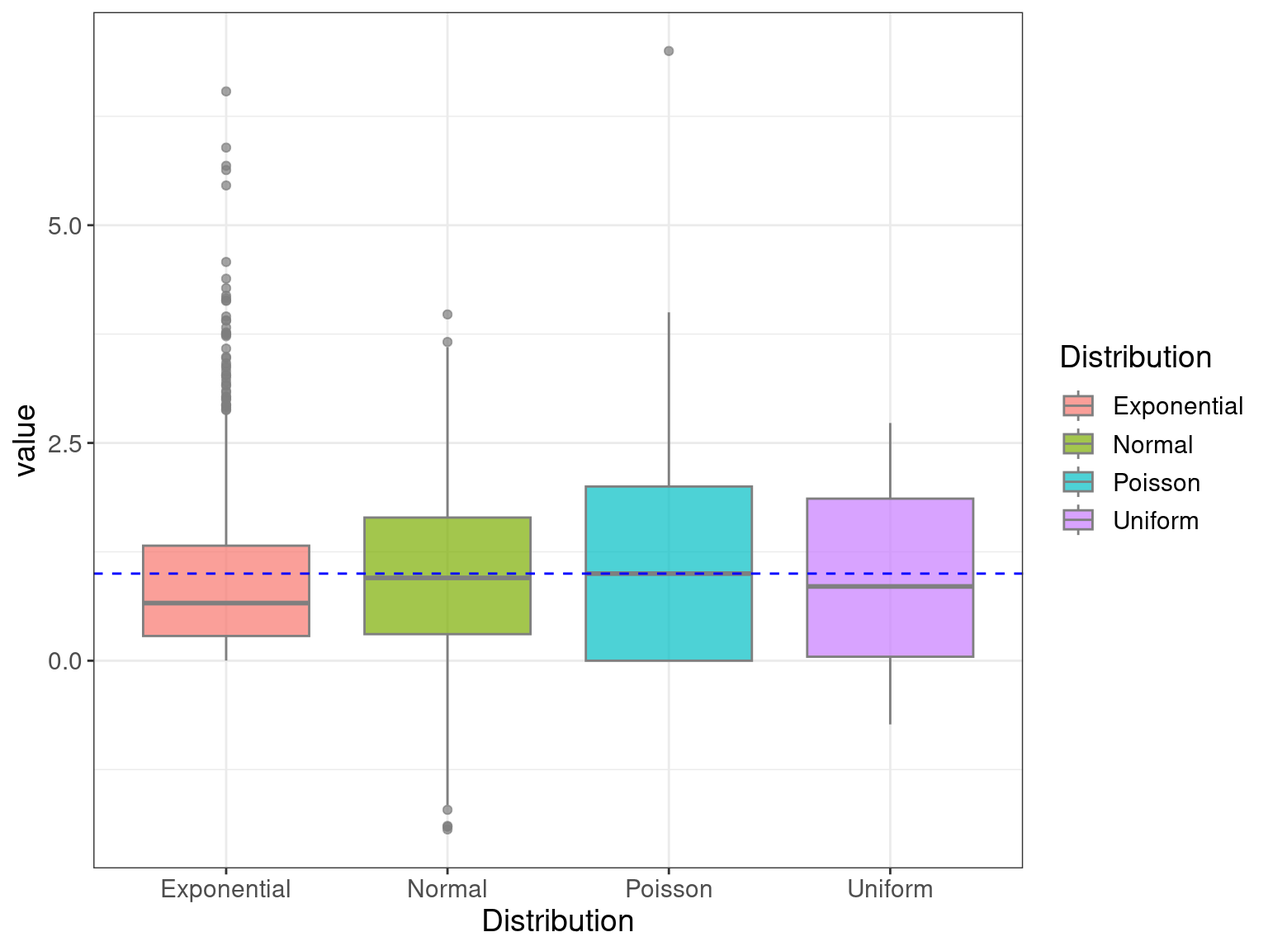
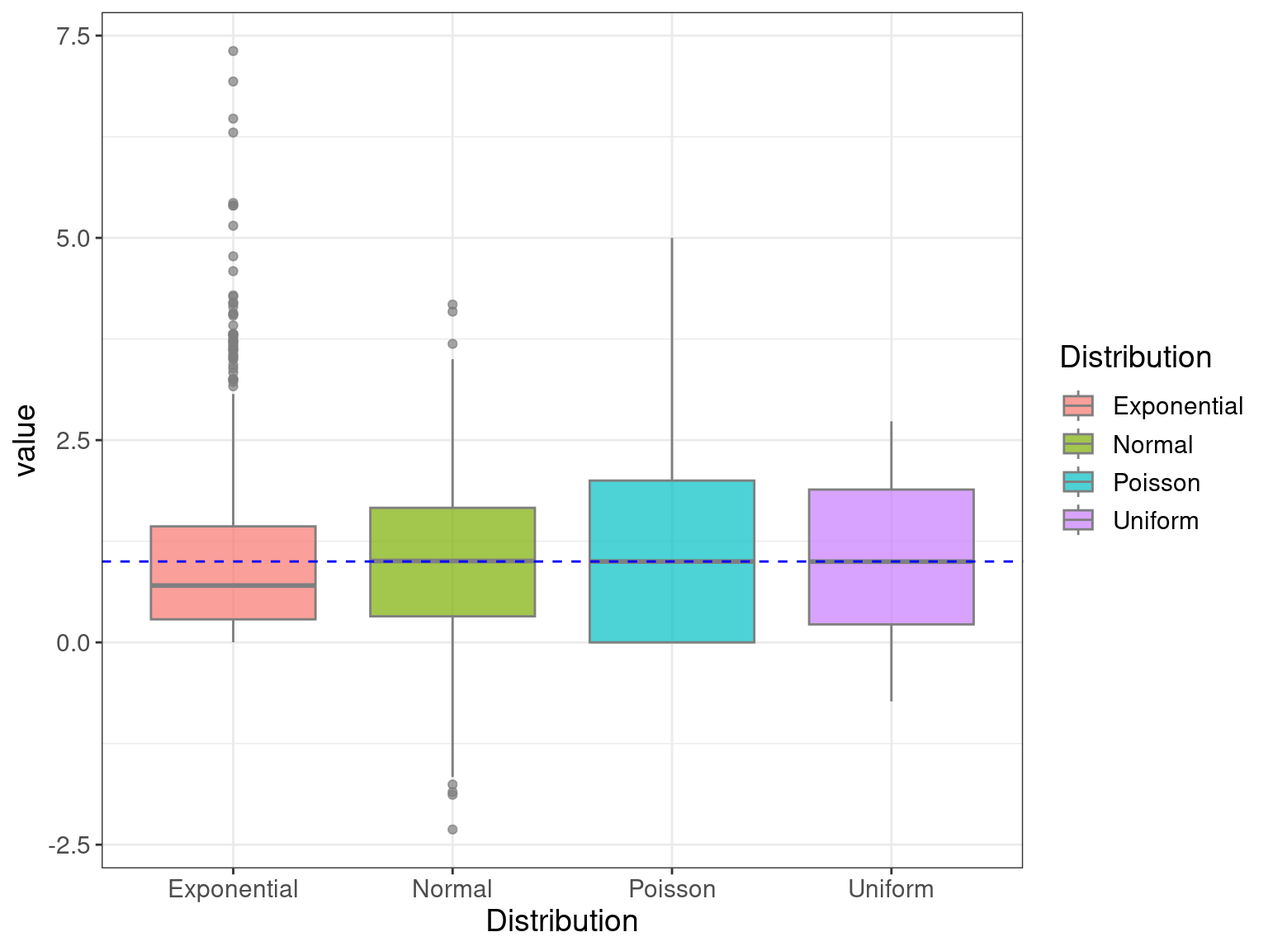
Started regression

diff --git a/docs/2.3_BasicStatistics.html b/docs/2.3_BasicStatistics.html
@@ -578,23 +578,23 @@ Dr Stevie Pederson
 <tbody>
 <tr class="odd">
 <td style="text-align: left;">Normal</td>
-<td style="text-align: right;">0.9492</td>
-<td style="text-align: right;">0.9949</td>
+<td style="text-align: right;">0.9879</td>
+<td style="text-align: right;">1.009</td>
 </tr>
 <tr class="even">
 <td style="text-align: left;">Uniform</td>
-<td style="text-align: right;">0.9323</td>
-<td style="text-align: right;">1.021</td>
+<td style="text-align: right;">1.031</td>
+<td style="text-align: right;">0.9926</td>
 </tr>
 <tr class="odd">
 <td style="text-align: left;">Exponential</td>
-<td style="text-align: right;">0.9529</td>
-<td style="text-align: right;">0.9316</td>
+<td style="text-align: right;">1.011</td>
+<td style="text-align: right;">1.007</td>
 </tr>
 <tr class="even">
 <td style="text-align: left;">Poisson</td>
-<td style="text-align: right;">1.007</td>
-<td style="text-align: right;">1.012</td>
+<td style="text-align: right;">0.98</td>
+<td style="text-align: right;">0.9729</td>
 </tr>
 </tbody>
 </table>
@@ -978,7 +978,7 @@ H_A: \text{Dependence between groups and outcome}
 </div>
 </section></section>
 <section>
-<section id="regression" class="title-slide slide level1 center">
+<section id="regression" class="title-slide slide level1 center" data-background-color="#3c3c44">
 <h1>Regression</h1>
 
 </section>
@@ -997,14 +997,15 @@ y = \beta_0 + \beta_1 x
 <h2>Linear Regression</h2>
 <p>Linear Regression always uses the <code>R</code> formula syntax</p>
 <ul>
-<li><code>y ~ x</code> means <code>y</code> is a function of <code>x</code></li>
+<li><code>y ~ x</code> means <code>y</code> depends on <code>x</code>
+<ul>
+<li>i.e.&nbsp;<span class="math inline">\(y = \beta_0 + \beta_1x\)</span></li>
+</ul></li>
 <li>We use the function <code>lm()</code></li>
 <li>The Intercept term is assumed unless explicitly removed (<code>~ 0 + ...</code>)</li>
 </ul>
 <div class="cell" data-layout-align="center">
-<div class="sourceCode cell-code" id="cb18"><pre class="sourceCode r code-with-copy"><code class="sourceCode r"><span id="cb18-1"><a href="#cb18-1" aria-hidden="true" tabindex="-1"></a>lmTooth <span class="ot">&lt;-</span> <span class="fu">lm</span>(len <span class="sc">~</span> supp , <span class="at">data =</span> toothData) </span>
-<span id="cb18-2"><a href="#cb18-2" aria-hidden="true" tabindex="-1"></a><span class="fu">anova</span>(lmTooth)</span>
-<span id="cb18-3"><a href="#cb18-3" aria-hidden="true" tabindex="-1"></a><span class="fu">summary</span>(lmTooth)</span></code><button title="Copy to Clipboard" class="code-copy-button"><i class="bi"></i></button></pre></div>
+<div class="sourceCode cell-code" id="cb18"><pre class="sourceCode r code-with-copy"><code class="sourceCode r"><span id="cb18-1"><a href="#cb18-1" aria-hidden="true" tabindex="-1"></a>lmTooth <span class="ot">&lt;-</span> <span class="fu">lm</span>(len <span class="sc">~</span> supp , <span class="at">data =</span> toothData) </span></code><button title="Copy to Clipboard" class="code-copy-button"><i class="bi"></i></button></pre></div>
 </div>
 </section>
 <section id="linear-regression-2" class="slide level2">
@@ -1015,17 +1016,34 @@ y = \beta_0 + \beta_1 x
 <span id="cb19-2"><a href="#cb19-2" aria-hidden="true" tabindex="-1"></a><span class="fu">typeof</span>(lmTooth)</span>
 <span id="cb19-3"><a href="#cb19-3" aria-hidden="true" tabindex="-1"></a><span class="fu">str</span>(lmTooth)</span></code><button title="Copy to Clipboard" class="code-copy-button"><i class="bi"></i></button></pre></div>
 </div>
+<div class="fragment">
+<div class="cell" data-layout-align="center">
+<div class="sourceCode cell-code" id="cb20"><pre class="sourceCode r code-with-copy"><code class="sourceCode r"><span id="cb20-1"><a href="#cb20-1" aria-hidden="true" tabindex="-1"></a><span class="fu">anova</span>(lmTooth)</span>
+<span id="cb20-2"><a href="#cb20-2" aria-hidden="true" tabindex="-1"></a><span class="fu">summary</span>(lmTooth)</span></code><button title="Copy to Clipboard" class="code-copy-button"><i class="bi"></i></button></pre></div>
+</div>
+</div>
 </section>
 <section id="linear-regression-3" class="slide level2">
+<h2>Linear Regression</h2>
+<ul>
+<li>Both <code>anova()</code> and <code>summary()</code> also create objects</li>
+</ul>
+<div class="cell" data-layout-align="center">
+<div class="sourceCode cell-code" id="cb21"><pre class="sourceCode r code-with-copy"><code class="sourceCode r"><span id="cb21-1"><a href="#cb21-1" aria-hidden="true" tabindex="-1"></a><span class="fu">class</span>(<span class="fu">anova</span>(lmTooth))</span>
+<span id="cb21-2"><a href="#cb21-2" aria-hidden="true" tabindex="-1"></a><span class="fu">class</span>(<span class="fu">summary</span>(lmTooth))</span>
+<span id="cb21-3"><a href="#cb21-3" aria-hidden="true" tabindex="-1"></a><span class="fu">typeof</span>(<span class="fu">summary</span>(lmTooth))</span></code><button title="Copy to Clipboard" class="code-copy-button"><i class="bi"></i></button></pre></div>
+</div>
+</section>
+<section id="linear-regression-4" class="slide level2">
 <h2>Linear Regression</h2>
 <ul>
 <li>It looks like <code>supp == VC</code> reduces the length of the teeth</li>
 <li>In reality we’d like to see if dose has an effect as well</li>
 </ul>
 <div class="cell" data-layout-align="center">
-<div class="sourceCode cell-code" id="cb20"><pre class="sourceCode r code-with-copy"><code class="sourceCode r"><span id="cb20-1"><a href="#cb20-1" aria-hidden="true" tabindex="-1"></a>lmToothDose <span class="ot">&lt;-</span> <span class="fu">lm</span>(len <span class="sc">~</span> supp <span class="sc">+</span> dose, <span class="at">data =</span> toothData) </span>
-<span id="cb20-2"><a href="#cb20-2" aria-hidden="true" tabindex="-1"></a><span class="fu">anova</span>(lmToothDose)</span>
-<span id="cb20-3"><a href="#cb20-3" aria-hidden="true" tabindex="-1"></a><span class="fu">summary</span>(lmToothDose)</span></code><button title="Copy to Clipboard" class="code-copy-button"><i class="bi"></i></button></pre></div>
+<div class="sourceCode cell-code" id="cb22"><pre class="sourceCode r code-with-copy"><code class="sourceCode r"><span id="cb22-1"><a href="#cb22-1" aria-hidden="true" tabindex="-1"></a>lmToothDose <span class="ot">&lt;-</span> <span class="fu">lm</span>(len <span class="sc">~</span> supp <span class="sc">+</span> dose, <span class="at">data =</span> toothData) </span>
+<span id="cb22-2"><a href="#cb22-2" aria-hidden="true" tabindex="-1"></a><span class="fu">anova</span>(lmToothDose)</span>
+<span id="cb22-3"><a href="#cb22-3" aria-hidden="true" tabindex="-1"></a><span class="fu">summary</span>(lmToothDose)</span></code><button title="Copy to Clipboard" class="code-copy-button"><i class="bi"></i></button></pre></div>
 </div>
 <ul>
 <li>It looks like an increasing dose-level increases length</li>
@@ -1038,10 +1056,10 @@ y = \beta_0 + \beta_1 x
 <li>We could include an <strong>interaction term</strong></li>
 </ul>
 <div class="cell" data-layout-align="center">
-<div class="sourceCode cell-code" id="cb21"><pre class="sourceCode r code-with-copy"><code class="sourceCode r"><span id="cb21-1"><a href="#cb21-1" aria-hidden="true" tabindex="-1"></a>lmToothInteraction <span class="ot">&lt;-</span> <span class="fu">lm</span>(len <span class="sc">~</span> supp <span class="sc">+</span> dose <span class="sc">+</span> supp<span class="sc">:</span>dose, </span>
-<span id="cb21-2"><a href="#cb21-2" aria-hidden="true" tabindex="-1"></a>                         <span class="at">data =</span> toothData) </span>
-<span id="cb21-3"><a href="#cb21-3" aria-hidden="true" tabindex="-1"></a><span class="fu">summary</span>(lmToothInteraction)</span>
-<span id="cb21-4"><a href="#cb21-4" aria-hidden="true" tabindex="-1"></a><span class="fu">anova</span>(lmToothInteraction)</span></code><button title="Copy to Clipboard" class="code-copy-button"><i class="bi"></i></button></pre></div>
+<div class="sourceCode cell-code" id="cb23"><pre class="sourceCode r code-with-copy"><code class="sourceCode r"><span id="cb23-1"><a href="#cb23-1" aria-hidden="true" tabindex="-1"></a>lmToothInteraction <span class="ot">&lt;-</span> <span class="fu">lm</span>(len <span class="sc">~</span> supp <span class="sc">+</span> dose <span class="sc">+</span> supp<span class="sc">:</span>dose, </span>
+<span id="cb23-2"><a href="#cb23-2" aria-hidden="true" tabindex="-1"></a>                         <span class="at">data =</span> toothData) </span>
+<span id="cb23-3"><a href="#cb23-3" aria-hidden="true" tabindex="-1"></a><span class="fu">summary</span>(lmToothInteraction)</span>
+<span id="cb23-4"><a href="#cb23-4" aria-hidden="true" tabindex="-1"></a><span class="fu">anova</span>(lmToothInteraction)</span></code><button title="Copy to Clipboard" class="code-copy-button"><i class="bi"></i></button></pre></div>
 </div>
 <ul>
 <li>It looks like at the higher doses, this difference disappears</li>
@@ -1051,20 +1069,20 @@ y = \beta_0 + \beta_1 x
 <h2>Linear Regression | Interaction Terms</h2>
 <p>An alternative way to write the previous model is:</p>
 <div class="cell" data-layout-align="center">
-<div class="sourceCode cell-code" id="cb22"><pre class="sourceCode r code-with-copy"><code class="sourceCode r"><span id="cb22-1"><a href="#cb22-1" aria-hidden="true" tabindex="-1"></a>lmToothInteraction <span class="ot">&lt;-</span> <span class="fu">lm</span>(len <span class="sc">~</span> (supp <span class="sc">+</span> dose)<span class="sc">^</span><span class="dv">2</span>, </span>
-<span id="cb22-2"><a href="#cb22-2" aria-hidden="true" tabindex="-1"></a>                         <span class="at">data =</span> toothData)</span>
-<span id="cb22-3"><a href="#cb22-3" aria-hidden="true" tabindex="-1"></a><span class="fu">summary</span>(lmToothInteraction)</span>
-<span id="cb22-4"><a href="#cb22-4" aria-hidden="true" tabindex="-1"></a><span class="fu">anova</span>(lmToothInteraction)</span></code><button title="Copy to Clipboard" class="code-copy-button"><i class="bi"></i></button></pre></div>
+<div class="sourceCode cell-code" id="cb24"><pre class="sourceCode r code-with-copy"><code class="sourceCode r"><span id="cb24-1"><a href="#cb24-1" aria-hidden="true" tabindex="-1"></a>lmToothInteraction <span class="ot">&lt;-</span> <span class="fu">lm</span>(len <span class="sc">~</span> (supp <span class="sc">+</span> dose)<span class="sc">^</span><span class="dv">2</span>, </span>
+<span id="cb24-2"><a href="#cb24-2" aria-hidden="true" tabindex="-1"></a>                         <span class="at">data =</span> toothData)</span>
+<span id="cb24-3"><a href="#cb24-3" aria-hidden="true" tabindex="-1"></a><span class="fu">summary</span>(lmToothInteraction)</span>
+<span id="cb24-4"><a href="#cb24-4" aria-hidden="true" tabindex="-1"></a><span class="fu">anova</span>(lmToothInteraction)</span></code><button title="Copy to Clipboard" class="code-copy-button"><i class="bi"></i></button></pre></div>
 </div>
 </section>
 <section id="linear-regression-model-selection" class="slide level2">
 <h2>Linear Regression | Model Selection</h2>
 <p>Which model should we choose?</p>
 <div class="cell" data-layout-align="center">
-<div class="sourceCode cell-code" id="cb23"><pre class="sourceCode r code-with-copy"><code class="sourceCode r"><span id="cb23-1"><a href="#cb23-1" aria-hidden="true" tabindex="-1"></a><span class="fu">anova</span>(lmTooth, lmToothDose, lmToothInteraction)</span></code><button title="Copy to Clipboard" class="code-copy-button"><i class="bi"></i></button></pre></div>
+<div class="sourceCode cell-code" id="cb25"><pre class="sourceCode r code-with-copy"><code class="sourceCode r"><span id="cb25-1"><a href="#cb25-1" aria-hidden="true" tabindex="-1"></a><span class="fu">anova</span>(lmTooth, lmToothDose, lmToothInteraction)</span></code><button title="Copy to Clipboard" class="code-copy-button"><i class="bi"></i></button></pre></div>
 </div>
 </section>
-<section id="linear-regression-4" class="slide level2">
+<section id="linear-regression-5" class="slide level2">
 <h2>Linear Regression</h2>
 <p>Are we happy with our model assumptions?</p>
 <ol type="1">
@@ -1073,9 +1091,9 @@ y = \beta_0 + \beta_1 x
 <li>Linear relationship</li>
 </ol>
 <div class="cell" data-layout-align="center">
-<div class="sourceCode cell-code" id="cb24"><pre class="sourceCode r code-with-copy"><code class="sourceCode r"><span id="cb24-1"><a href="#cb24-1" aria-hidden="true" tabindex="-1"></a><span class="fu">par</span>(<span class="at">mfrow =</span> <span class="fu">c</span>(<span class="dv">1</span>,<span class="dv">2</span>))</span>
-<span id="cb24-2"><a href="#cb24-2" aria-hidden="true" tabindex="-1"></a><span class="fu">plot</span>(lmToothInteraction, <span class="at">which =</span> <span class="dv">1</span><span class="sc">:</span><span class="dv">2</span>)</span>
-<span id="cb24-3"><a href="#cb24-3" aria-hidden="true" tabindex="-1"></a><span class="fu">par</span>(<span class="at">mfrow =</span> <span class="fu">c</span>(<span class="dv">1</span>, <span class="dv">1</span>))</span></code><button title="Copy to Clipboard" class="code-copy-button"><i class="bi"></i></button></pre></div>
+<div class="sourceCode cell-code" id="cb26"><pre class="sourceCode r code-with-copy"><code class="sourceCode r"><span id="cb26-1"><a href="#cb26-1" aria-hidden="true" tabindex="-1"></a><span class="fu">par</span>(<span class="at">mfrow =</span> <span class="fu">c</span>(<span class="dv">1</span>,<span class="dv">2</span>))</span>
+<span id="cb26-2"><a href="#cb26-2" aria-hidden="true" tabindex="-1"></a><span class="fu">plot</span>(lmToothInteraction, <span class="at">which =</span> <span class="dv">1</span><span class="sc">:</span><span class="dv">2</span>)</span>
+<span id="cb26-3"><a href="#cb26-3" aria-hidden="true" tabindex="-1"></a><span class="fu">par</span>(<span class="at">mfrow =</span> <span class="fu">c</span>(<span class="dv">1</span>, <span class="dv">1</span>))</span></code><button title="Copy to Clipboard" class="code-copy-button"><i class="bi"></i></button></pre></div>
 </div>
 <!-- ## Logistic Regression | `glm()` -->
 <!-- Logistic Regression models probabilities (e.g. $H_0: \pi = 0$) -->
@@ -1158,11 +1176,11 @@ y = \beta_0 + \beta_1 x
 <li><code>PCA</code> needs a matrix, so I’ll transform as I load</li>
 </ul>
 <div class="cell" data-layout-align="center">
-<div class="sourceCode cell-code" id="cb25"><pre class="sourceCode r code-with-copy"><code class="sourceCode r"><span id="cb25-1"><a href="#cb25-1" aria-hidden="true" tabindex="-1"></a>genes <span class="ot">&lt;-</span> <span class="fu">read_csv</span>(<span class="st">"data/geneExpression.csv"</span>) <span class="sc">%&gt;%</span></span>
-<span id="cb25-2"><a href="#cb25-2" aria-hidden="true" tabindex="-1"></a>  <span class="fu">as.data.frame</span>() <span class="sc">%&gt;%</span></span>
-<span id="cb25-3"><a href="#cb25-3" aria-hidden="true" tabindex="-1"></a>  <span class="fu">column_to_rownames</span>(<span class="st">"X1"</span>) <span class="sc">%&gt;%</span></span>
-<span id="cb25-4"><a href="#cb25-4" aria-hidden="true" tabindex="-1"></a>  <span class="fu">as.matrix</span>() </span>
-<span id="cb25-5"><a href="#cb25-5" aria-hidden="true" tabindex="-1"></a><span class="fu">dim</span>(genes)</span></code><button title="Copy to Clipboard" class="code-copy-button"><i class="bi"></i></button></pre></div>
+<div class="sourceCode cell-code" id="cb27"><pre class="sourceCode r code-with-copy"><code class="sourceCode r"><span id="cb27-1"><a href="#cb27-1" aria-hidden="true" tabindex="-1"></a>genes <span class="ot">&lt;-</span> <span class="fu">read_csv</span>(<span class="st">"data/geneExpression.csv"</span>) <span class="sc">%&gt;%</span></span>
+<span id="cb27-2"><a href="#cb27-2" aria-hidden="true" tabindex="-1"></a>  <span class="fu">as.data.frame</span>() <span class="sc">%&gt;%</span></span>
+<span id="cb27-3"><a href="#cb27-3" aria-hidden="true" tabindex="-1"></a>  <span class="fu">column_to_rownames</span>(<span class="st">"X1"</span>) <span class="sc">%&gt;%</span></span>
+<span id="cb27-4"><a href="#cb27-4" aria-hidden="true" tabindex="-1"></a>  <span class="fu">as.matrix</span>() </span>
+<span id="cb27-5"><a href="#cb27-5" aria-hidden="true" tabindex="-1"></a><span class="fu">dim</span>(genes)</span></code><button title="Copy to Clipboard" class="code-copy-button"><i class="bi"></i></button></pre></div>
 </div>
 </section>
 <section id="pca-1" class="slide level2">
@@ -1174,10 +1192,10 @@ y = \beta_0 + \beta_1 x
 <li>Run <code>PCA</code> using <code>prcomp()</code></li>
 </ul>
 <div class="cell" data-layout-align="center">
-<div class="sourceCode cell-code" id="cb26"><pre class="sourceCode r code-with-copy"><code class="sourceCode r"><span id="cb26-1"><a href="#cb26-1" aria-hidden="true" tabindex="-1"></a>pcaGenes <span class="ot">&lt;-</span> genes <span class="sc">%&gt;%</span> <span class="fu">t</span>() <span class="sc">%&gt;%</span> <span class="fu">prcomp</span>()</span>
-<span id="cb26-2"><a href="#cb26-2" aria-hidden="true" tabindex="-1"></a><span class="fu">summary</span>(pcaGenes)</span>
-<span id="cb26-3"><a href="#cb26-3" aria-hidden="true" tabindex="-1"></a><span class="fu">biplot</span>(pcaGenes)</span>
-<span id="cb26-4"><a href="#cb26-4" aria-hidden="true" tabindex="-1"></a><span class="fu">screeplot</span>(pcaGenes)</span></code><button title="Copy to Clipboard" class="code-copy-button"><i class="bi"></i></button></pre></div>
+<div class="sourceCode cell-code" id="cb28"><pre class="sourceCode r code-with-copy"><code class="sourceCode r"><span id="cb28-1"><a href="#cb28-1" aria-hidden="true" tabindex="-1"></a>pcaGenes <span class="ot">&lt;-</span> genes <span class="sc">%&gt;%</span> <span class="fu">t</span>() <span class="sc">%&gt;%</span> <span class="fu">prcomp</span>()</span>
+<span id="cb28-2"><a href="#cb28-2" aria-hidden="true" tabindex="-1"></a><span class="fu">summary</span>(pcaGenes)</span>
+<span id="cb28-3"><a href="#cb28-3" aria-hidden="true" tabindex="-1"></a><span class="fu">biplot</span>(pcaGenes)</span>
+<span id="cb28-4"><a href="#cb28-4" aria-hidden="true" tabindex="-1"></a><span class="fu">screeplot</span>(pcaGenes)</span></code><button title="Copy to Clipboard" class="code-copy-button"><i class="bi"></i></button></pre></div>
 </div>
 </section>
 <section id="pca-2" class="slide level2">
@@ -1187,9 +1205,9 @@ y = \beta_0 + \beta_1 x
 <li>Create a <code>tibble</code> using the sample names</li>
 </ul>
 <div class="cell" data-layout-align="center">
-<div class="sourceCode cell-code" id="cb27"><pre class="sourceCode r code-with-copy"><code class="sourceCode r"><span id="cb27-1"><a href="#cb27-1" aria-hidden="true" tabindex="-1"></a>samples <span class="ot">&lt;-</span> <span class="fu">tibble</span>(<span class="at">name =</span> <span class="fu">colnames</span>(genes)) <span class="sc">%&gt;%</span></span>
-<span id="cb27-2"><a href="#cb27-2" aria-hidden="true" tabindex="-1"></a>  <span class="fu">mutate</span>(<span class="at">CellType =</span> <span class="fu">str_extract</span>(name, <span class="st">"(Th|Treg)"</span>),</span>
-<span id="cb27-3"><a href="#cb27-3" aria-hidden="true" tabindex="-1"></a>         <span class="at">Stim =</span> <span class="fu">str_detect</span>(name, <span class="st">"</span><span class="sc">\\</span><span class="st">+"</span>))</span></code><button title="Copy to Clipboard" class="code-copy-button"><i class="bi"></i></button></pre></div>
+<div class="sourceCode cell-code" id="cb29"><pre class="sourceCode r code-with-copy"><code class="sourceCode r"><span id="cb29-1"><a href="#cb29-1" aria-hidden="true" tabindex="-1"></a>samples <span class="ot">&lt;-</span> <span class="fu">tibble</span>(<span class="at">name =</span> <span class="fu">colnames</span>(genes)) <span class="sc">%&gt;%</span></span>
+<span id="cb29-2"><a href="#cb29-2" aria-hidden="true" tabindex="-1"></a>  <span class="fu">mutate</span>(<span class="at">CellType =</span> <span class="fu">str_extract</span>(name, <span class="st">"(Th|Treg)"</span>),</span>
+<span id="cb29-3"><a href="#cb29-3" aria-hidden="true" tabindex="-1"></a>         <span class="at">Stim =</span> <span class="fu">str_detect</span>(name, <span class="st">"</span><span class="sc">\\</span><span class="st">+"</span>))</span></code><button title="Copy to Clipboard" class="code-copy-button"><i class="bi"></i></button></pre></div>
 </div>
 </section>
 <section id="pca-3" class="slide level2">
@@ -1197,14 +1215,14 @@ y = \beta_0 + \beta_1 x
 <p>The co-ordinates on each component are in <code>pcaGenes$x</code></p>
 <p>Now we can convert to a <code>data.frame</code> and <code>left_join()</code></p>
 <div class="cell" data-layout-align="center">
-<div class="sourceCode cell-code" id="cb28"><pre class="sourceCode r code-with-copy"><code class="sourceCode r"><span id="cb28-1"><a href="#cb28-1" aria-hidden="true" tabindex="-1"></a>pcaGenes<span class="sc">$</span>x <span class="sc">%&gt;%</span></span>
-<span id="cb28-2"><a href="#cb28-2" aria-hidden="true" tabindex="-1"></a>  <span class="fu">as.data.frame</span>() <span class="sc">%&gt;%</span></span>
-<span id="cb28-3"><a href="#cb28-3" aria-hidden="true" tabindex="-1"></a>  <span class="fu">rownames_to_column</span>(<span class="st">"name"</span>) <span class="sc">%&gt;%</span></span>
-<span id="cb28-4"><a href="#cb28-4" aria-hidden="true" tabindex="-1"></a>  <span class="fu">left_join</span>(samples) <span class="sc">%&gt;%</span></span>
-<span id="cb28-5"><a href="#cb28-5" aria-hidden="true" tabindex="-1"></a>  <span class="fu">ggplot</span>(</span>
-<span id="cb28-6"><a href="#cb28-6" aria-hidden="true" tabindex="-1"></a>    <span class="fu">aes</span>(<span class="at">x =</span> PC1, <span class="at">y =</span> PC2, <span class="at">colour =</span> CellType, <span class="at">shape =</span> Stim)</span>
-<span id="cb28-7"><a href="#cb28-7" aria-hidden="true" tabindex="-1"></a>  ) <span class="sc">+</span></span>
-<span id="cb28-8"><a href="#cb28-8" aria-hidden="true" tabindex="-1"></a>  <span class="fu">geom_point</span>(<span class="at">size =</span> <span class="dv">2</span>)</span></code><button title="Copy to Clipboard" class="code-copy-button"><i class="bi"></i></button></pre></div>
+<div class="sourceCode cell-code" id="cb30"><pre class="sourceCode r code-with-copy"><code class="sourceCode r"><span id="cb30-1"><a href="#cb30-1" aria-hidden="true" tabindex="-1"></a>pcaGenes<span class="sc">$</span>x <span class="sc">%&gt;%</span></span>
+<span id="cb30-2"><a href="#cb30-2" aria-hidden="true" tabindex="-1"></a>  <span class="fu">as.data.frame</span>() <span class="sc">%&gt;%</span></span>
+<span id="cb30-3"><a href="#cb30-3" aria-hidden="true" tabindex="-1"></a>  <span class="fu">rownames_to_column</span>(<span class="st">"name"</span>) <span class="sc">%&gt;%</span></span>
+<span id="cb30-4"><a href="#cb30-4" aria-hidden="true" tabindex="-1"></a>  <span class="fu">left_join</span>(samples) <span class="sc">%&gt;%</span></span>
+<span id="cb30-5"><a href="#cb30-5" aria-hidden="true" tabindex="-1"></a>  <span class="fu">ggplot</span>(</span>
+<span id="cb30-6"><a href="#cb30-6" aria-hidden="true" tabindex="-1"></a>    <span class="fu">aes</span>(<span class="at">x =</span> PC1, <span class="at">y =</span> PC2, <span class="at">colour =</span> CellType, <span class="at">shape =</span> Stim)</span>
+<span id="cb30-7"><a href="#cb30-7" aria-hidden="true" tabindex="-1"></a>  ) <span class="sc">+</span></span>
+<span id="cb30-8"><a href="#cb30-8" aria-hidden="true" tabindex="-1"></a>  <span class="fu">geom_point</span>(<span class="at">size =</span> <span class="dv">2</span>)</span></code><button title="Copy to Clipboard" class="code-copy-button"><i class="bi"></i></button></pre></div>
 </div>
 </section>
 <section id="making-plots-interactive" class="slide level2">
@@ -1214,36 +1232,36 @@ y = \beta_0 + \beta_1 x
 <li>We need to specify all variables in the <em>“tool-tip”</em></li>
 </ul>
 <div class="cell" data-layout-align="center">
-<div class="sourceCode cell-code" id="cb29"><pre class="sourceCode r code-with-copy"><code class="sourceCode r"><span id="cb29-1"><a href="#cb29-1" aria-hidden="true" tabindex="-1"></a><span class="fu">library</span>(plotly)</span></code><button title="Copy to Clipboard" class="code-copy-button"><i class="bi"></i></button></pre></div>
+<div class="sourceCode cell-code" id="cb31"><pre class="sourceCode r code-with-copy"><code class="sourceCode r"><span id="cb31-1"><a href="#cb31-1" aria-hidden="true" tabindex="-1"></a><span class="fu">library</span>(plotly)</span></code><button title="Copy to Clipboard" class="code-copy-button"><i class="bi"></i></button></pre></div>
 </div>
 </section>
 <section id="making-plots-interactive-1" class="slide level2">
 <h2>Making Plots Interactive</h2>
 <p>We can add any custom parameter to a plot</p>
 <div class="cell" data-layout-align="center">
-<div class="sourceCode cell-code" id="cb30"><pre class="sourceCode r code-with-copy"><code class="sourceCode r"><span id="cb30-1"><a href="#cb30-1" aria-hidden="true" tabindex="-1"></a>pcaPlot <span class="ot">&lt;-</span> pcaGenes<span class="sc">$</span>x <span class="sc">%&gt;%</span></span>
-<span id="cb30-2"><a href="#cb30-2" aria-hidden="true" tabindex="-1"></a>  <span class="fu">as.data.frame</span>() <span class="sc">%&gt;%</span></span>
-<span id="cb30-3"><a href="#cb30-3" aria-hidden="true" tabindex="-1"></a>  <span class="fu">rownames_to_column</span>(<span class="st">"name"</span>) <span class="sc">%&gt;%</span></span>
-<span id="cb30-4"><a href="#cb30-4" aria-hidden="true" tabindex="-1"></a>  <span class="fu">left_join</span>(samples) <span class="sc">%&gt;%</span></span>
-<span id="cb30-5"><a href="#cb30-5" aria-hidden="true" tabindex="-1"></a>  <span class="fu">ggplot</span>(</span>
-<span id="cb30-6"><a href="#cb30-6" aria-hidden="true" tabindex="-1"></a>    <span class="fu">aes</span>(PC1, PC2, </span>
-<span id="cb30-7"><a href="#cb30-7" aria-hidden="true" tabindex="-1"></a>        <span class="at">colour =</span> CellType, <span class="at">shape =</span> Stim, <span class="at">label =</span> name)</span>
-<span id="cb30-8"><a href="#cb30-8" aria-hidden="true" tabindex="-1"></a>  ) <span class="sc">+</span></span>
-<span id="cb30-9"><a href="#cb30-9" aria-hidden="true" tabindex="-1"></a>  <span class="fu">geom_point</span>(<span class="at">size =</span> <span class="dv">2</span>) <span class="sc">+</span></span>
-<span id="cb30-10"><a href="#cb30-10" aria-hidden="true" tabindex="-1"></a>  <span class="fu">theme</span>(<span class="at">legend.position =</span> <span class="st">"none"</span>)</span></code><button title="Copy to Clipboard" class="code-copy-button"><i class="bi"></i></button></pre></div>
+<div class="sourceCode cell-code" id="cb32"><pre class="sourceCode r code-with-copy"><code class="sourceCode r"><span id="cb32-1"><a href="#cb32-1" aria-hidden="true" tabindex="-1"></a>pcaPlot <span class="ot">&lt;-</span> pcaGenes<span class="sc">$</span>x <span class="sc">%&gt;%</span></span>
+<span id="cb32-2"><a href="#cb32-2" aria-hidden="true" tabindex="-1"></a>  <span class="fu">as.data.frame</span>() <span class="sc">%&gt;%</span></span>
+<span id="cb32-3"><a href="#cb32-3" aria-hidden="true" tabindex="-1"></a>  <span class="fu">rownames_to_column</span>(<span class="st">"name"</span>) <span class="sc">%&gt;%</span></span>
+<span id="cb32-4"><a href="#cb32-4" aria-hidden="true" tabindex="-1"></a>  <span class="fu">left_join</span>(samples) <span class="sc">%&gt;%</span></span>
+<span id="cb32-5"><a href="#cb32-5" aria-hidden="true" tabindex="-1"></a>  <span class="fu">ggplot</span>(</span>
+<span id="cb32-6"><a href="#cb32-6" aria-hidden="true" tabindex="-1"></a>    <span class="fu">aes</span>(PC1, PC2, </span>
+<span id="cb32-7"><a href="#cb32-7" aria-hidden="true" tabindex="-1"></a>        <span class="at">colour =</span> CellType, <span class="at">shape =</span> Stim, <span class="at">label =</span> name)</span>
+<span id="cb32-8"><a href="#cb32-8" aria-hidden="true" tabindex="-1"></a>  ) <span class="sc">+</span></span>
+<span id="cb32-9"><a href="#cb32-9" aria-hidden="true" tabindex="-1"></a>  <span class="fu">geom_point</span>(<span class="at">size =</span> <span class="dv">2</span>) <span class="sc">+</span></span>
+<span id="cb32-10"><a href="#cb32-10" aria-hidden="true" tabindex="-1"></a>  <span class="fu">theme</span>(<span class="at">legend.position =</span> <span class="st">"none"</span>)</span></code><button title="Copy to Clipboard" class="code-copy-button"><i class="bi"></i></button></pre></div>
 </div>
 </section>
 <section id="making-plots-interactive-2" class="slide level2">
 <h2>Making Plots Interactive</h2>
 <div class="cell" data-layout-align="center">
-<div class="sourceCode cell-code" id="cb31"><pre class="sourceCode r code-with-copy"><code class="sourceCode r"><span id="cb31-1"><a href="#cb31-1" aria-hidden="true" tabindex="-1"></a><span class="fu">ggplotly</span>(pcaPlot)</span></code><button title="Copy to Clipboard" class="code-copy-button"><i class="bi"></i></button></pre></div>
+<div class="sourceCode cell-code" id="cb33"><pre class="sourceCode r code-with-copy"><code class="sourceCode r"><span id="cb33-1"><a href="#cb33-1" aria-hidden="true" tabindex="-1"></a><span class="fu">ggplotly</span>(pcaPlot)</span></code><button title="Copy to Clipboard" class="code-copy-button"><i class="bi"></i></button></pre></div>
 </div>
 </section>
 <section id="making-plots-interactive-3" class="slide level2">
 <h2>Making Plots Interactive</h2>
 <p>We can select the parameters to show in the tool-tip</p>
 <div class="cell" data-layout-align="center">
-<div class="sourceCode cell-code" id="cb32"><pre class="sourceCode r code-with-copy"><code class="sourceCode r"><span id="cb32-1"><a href="#cb32-1" aria-hidden="true" tabindex="-1"></a><span class="fu">ggplotly</span>(pcaPlot, <span class="at">tooltip =</span> <span class="fu">c</span>(<span class="st">"colour"</span>, <span class="st">"shape"</span>, <span class="st">"label"</span>))</span></code><button title="Copy to Clipboard" class="code-copy-button"><i class="bi"></i></button></pre></div>
+<div class="sourceCode cell-code" id="cb34"><pre class="sourceCode r code-with-copy"><code class="sourceCode r"><span id="cb34-1"><a href="#cb34-1" aria-hidden="true" tabindex="-1"></a><span class="fu">ggplotly</span>(pcaPlot, <span class="at">tooltip =</span> <span class="fu">c</span>(<span class="st">"colour"</span>, <span class="st">"shape"</span>, <span class="st">"label"</span>))</span></code><button title="Copy to Clipboard" class="code-copy-button"><i class="bi"></i></button></pre></div>
 </div>
 </section>
 <section class="slide level2">
